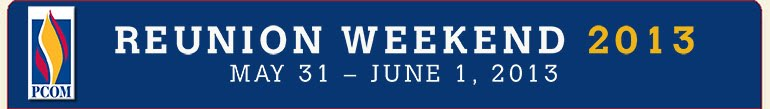
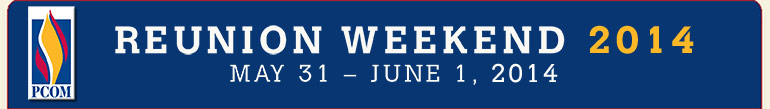
review

diff --git a/index.html b/index.html
@@ -31,7 +31,7 @@
 
 		
 		<div id="imgs"><img src="images2/img-home.jpg"></div>
-		<div id="regLink"><a href="https://miswebmaster.easycgi.com/alumwknd14/register2.asp">Register Now for Reunion Weekend 2013</a><br/><br/><span class="thirdBlueTitle">Questions? Contact: 215-871-6120/800-739-3939</span></div>		
+		<div id="regLink"><a href="https://miswebmaster.easycgi.com/alumwknd14/register2.asp">Register Now for Reunion Weekend 2014</a><br/><br/><span class="thirdBlueTitle">Questions? Contact: 215-871-6120/800-739-3939</span></div>		
 	</div>
 	<div id="btmCorner"></div>
 	<div id="btmPadding"></div>

diff --git a/thanks.html b/thanks.html
@@ -31,7 +31,7 @@
 		<div id="titleEvent"><img src="https://miswebmaster.easycgi.com/alumwknd14/images2/title-registration.jpg"></div>
 		<div id="content">
 		<div class="firstTitle">Thank you for registering for Alumni 
-                          Weekend 2013.<br>
+                          Weekend 2014.<br>
                           We look forward to seeing you there!<br />
                           Please check your E-Mail to confirm your order.<br />
                           <p>Transaction Successfully Authorized<br>
